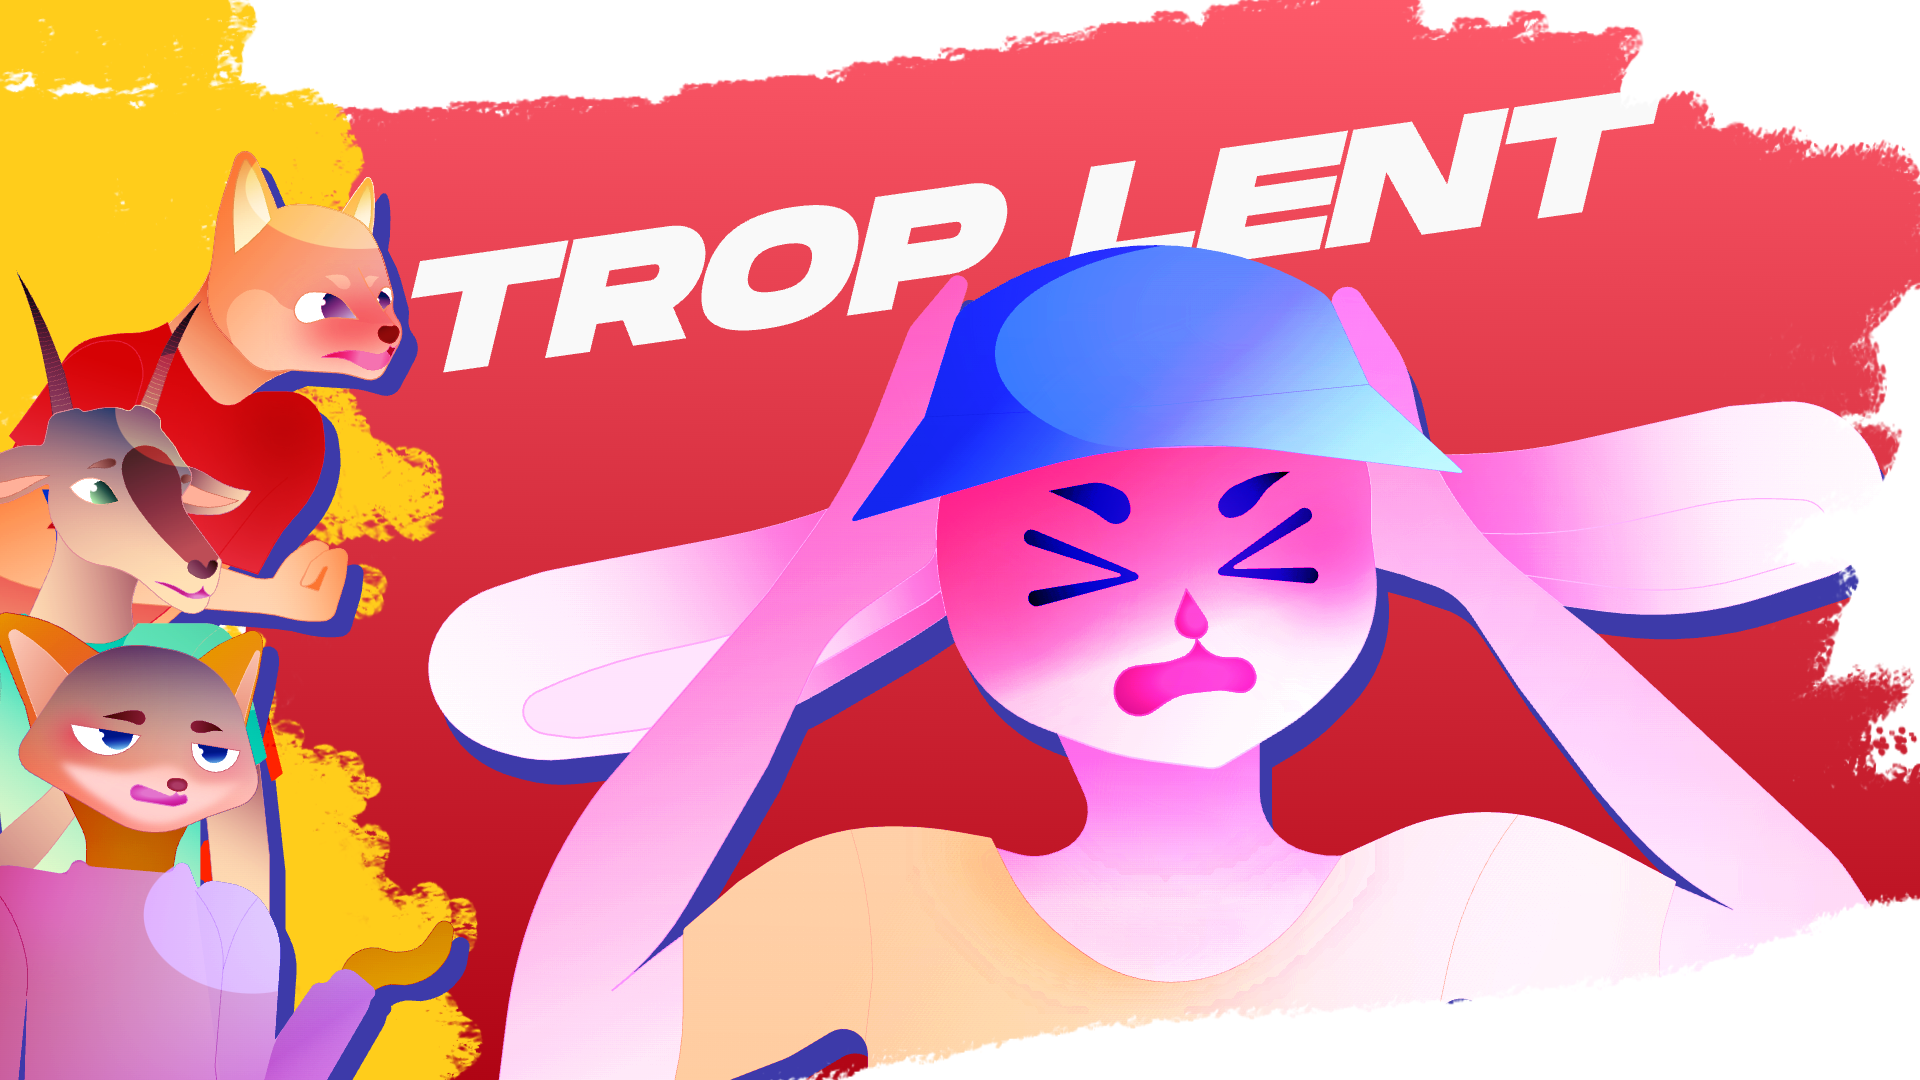
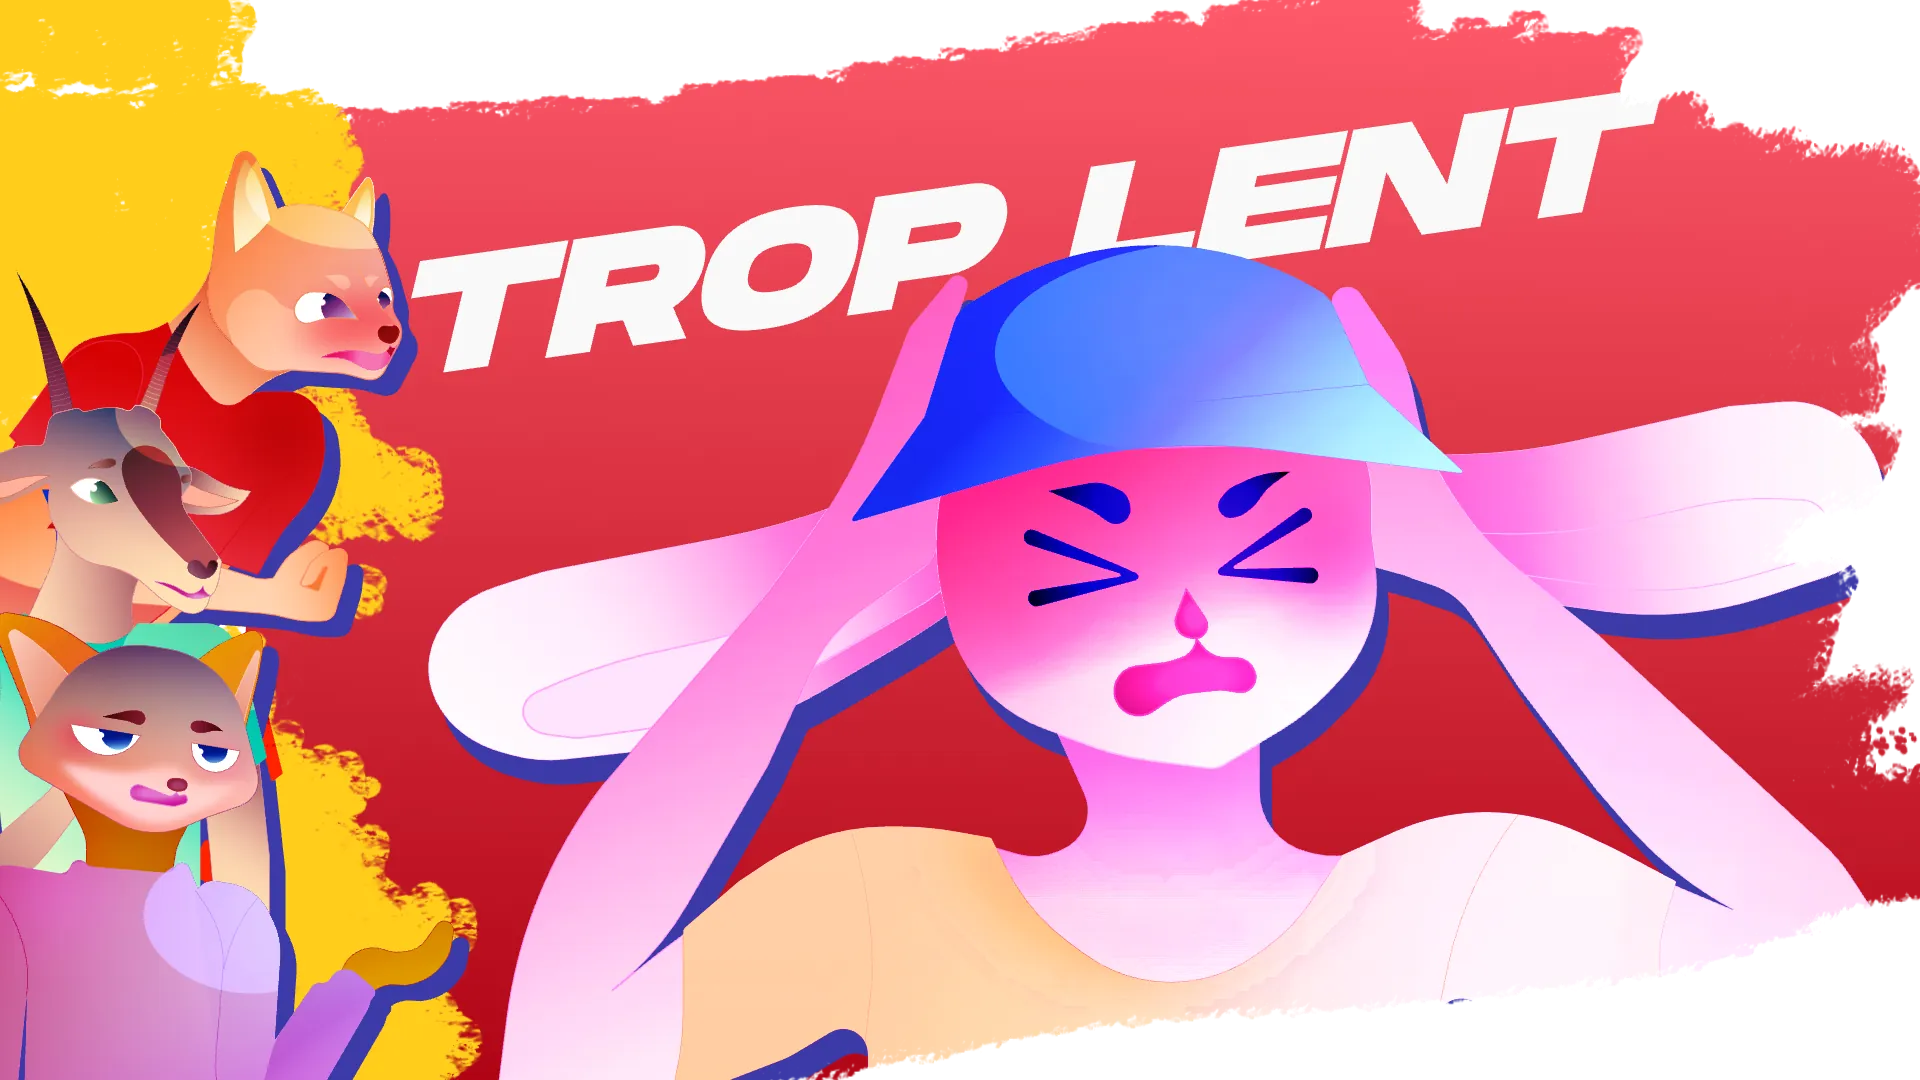
optimize img

diff --git a/src/pages/Quiz.vue b/src/pages/Quiz.vue
@@ -213,7 +213,7 @@ interface QAType {
 const recapTable = ref<QAType[]>([])
 
 const bluebrush = '/img/brush-blue-bravo.png'
-const redbrush = '/img/brush-red-oulah.png'
+const redbrush = '/img/brush-red-oulah.webp'
 const renardHappy = '/img/renard-happy.webp'
 const renardAngry = '/img/renard-angry.webp'
 const gazelleHappy = '/img/gazelle-happy.webp'

diff --git a/src/styles/components/_quiz.scss b/src/styles/components/_quiz.scss
@@ -65,7 +65,7 @@
   height: 100%;
   width: 100%;
   // background-image: url('/img/bg-quiz.jpg');
-  background-image: url('/img/bg-quiz-2.png');
+  background-image: url('/img/bg-quiz-2.webp');
   background-size: cover;
   z-index: -1;
   overflow: hidden;
